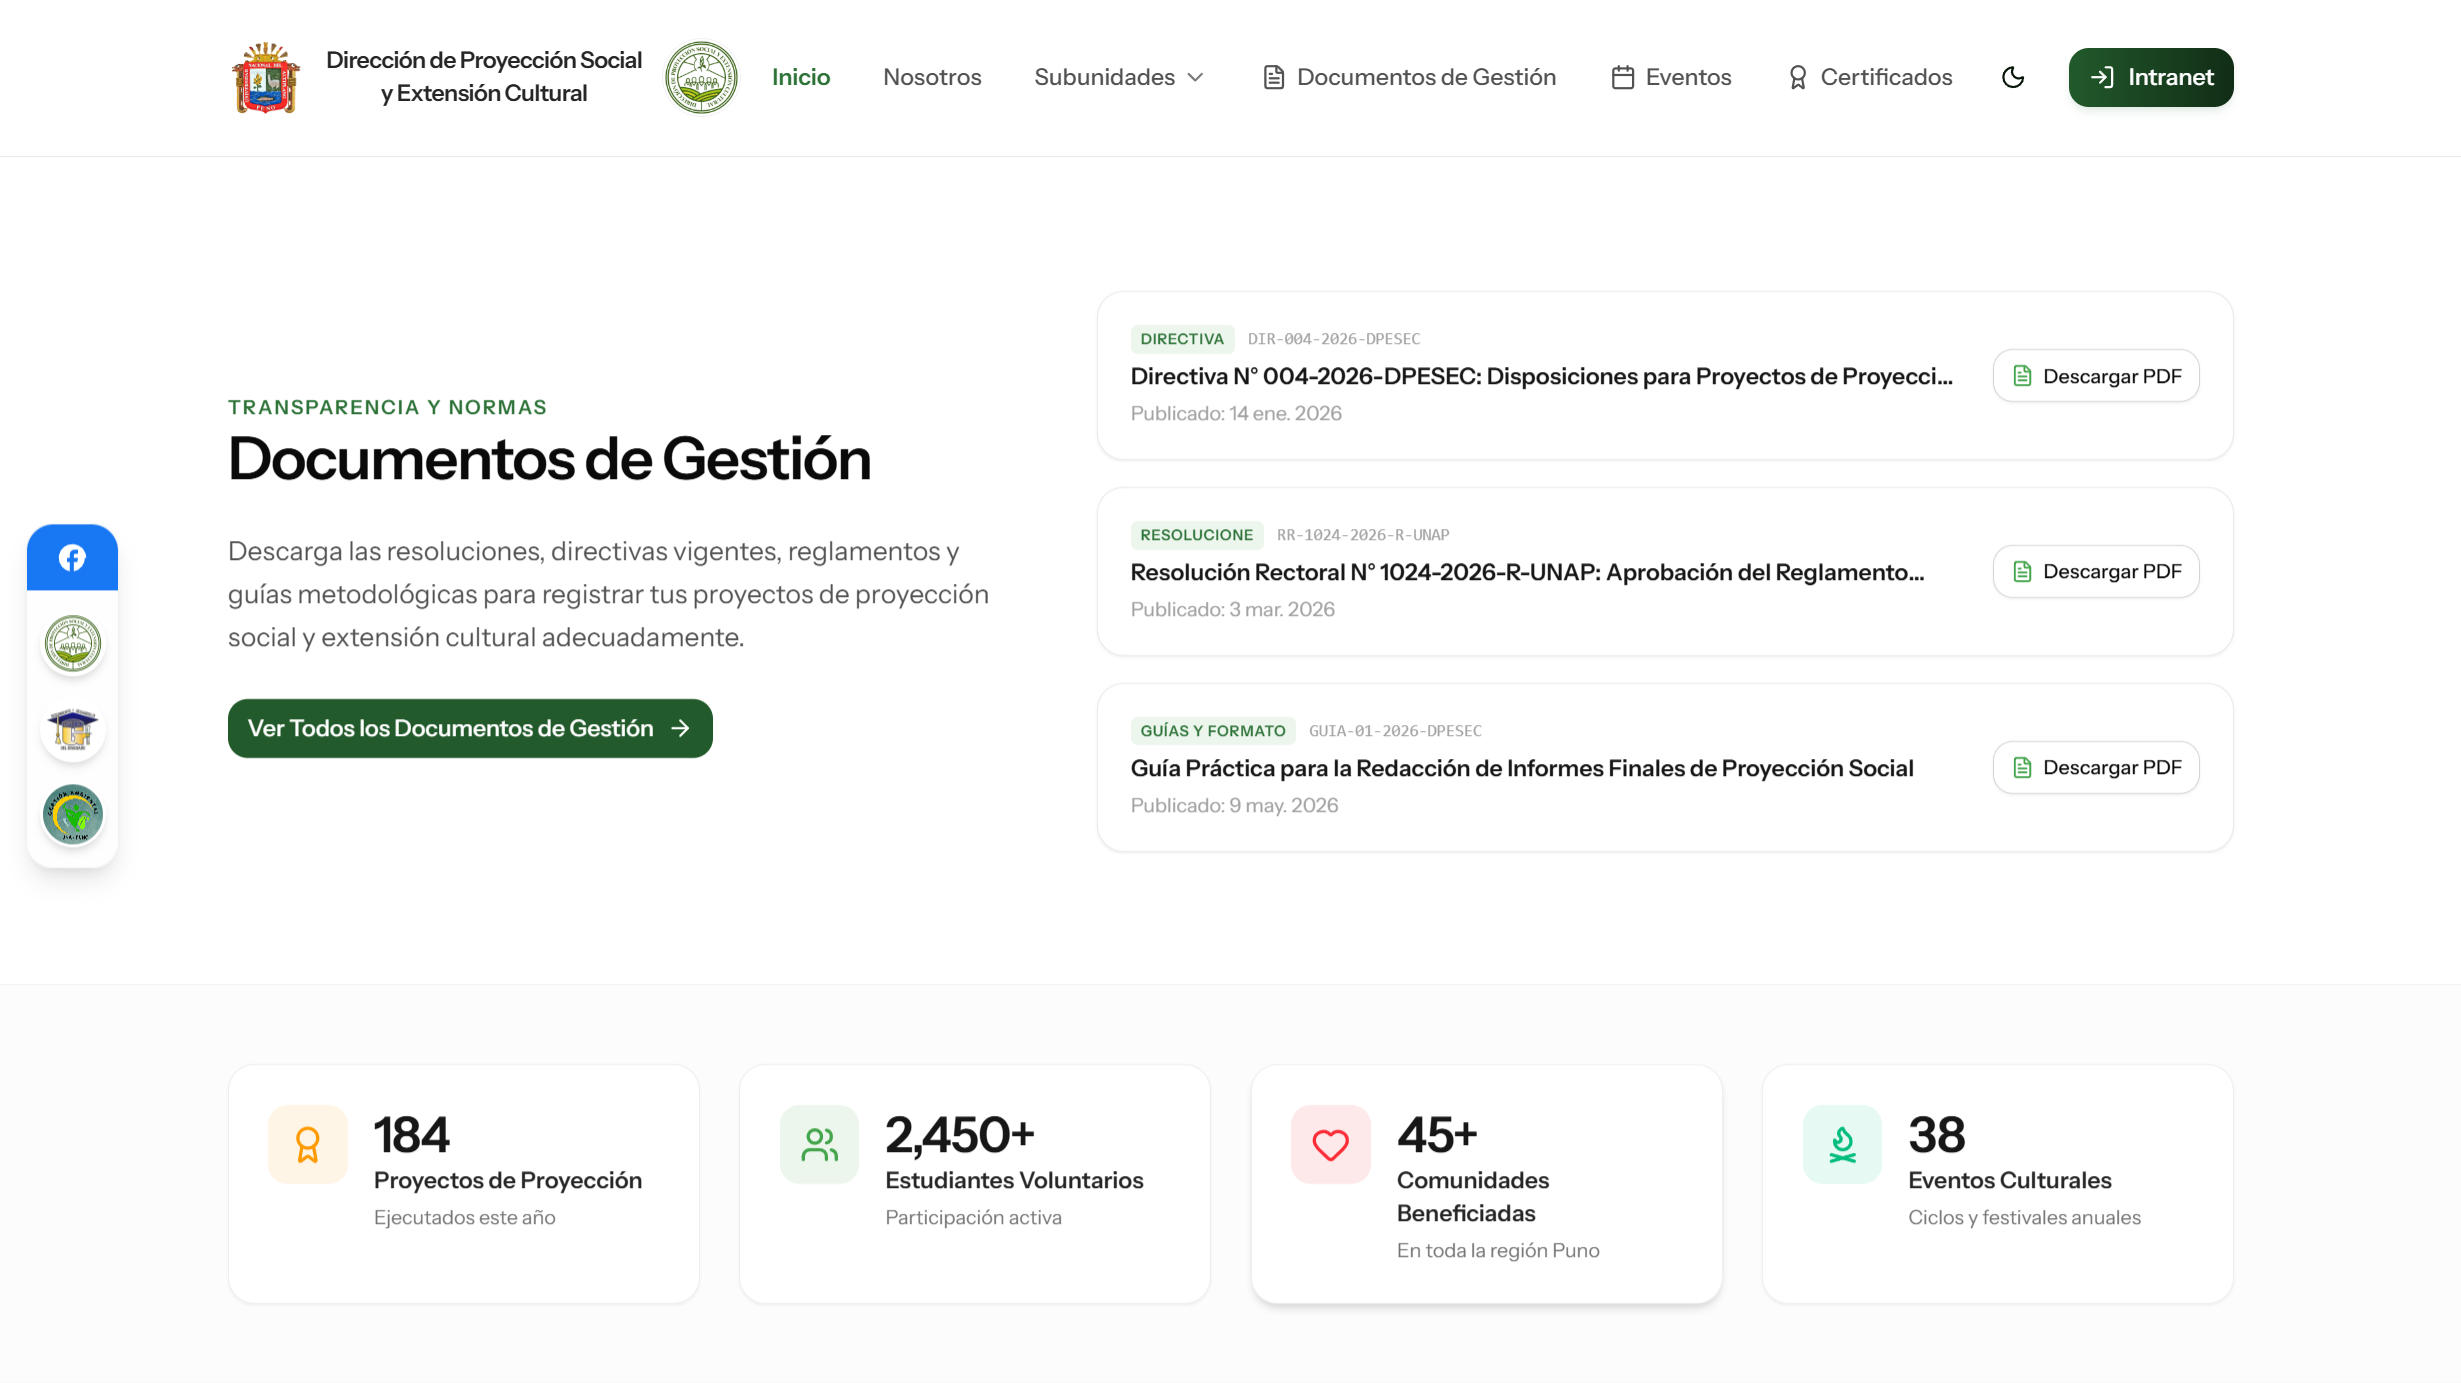
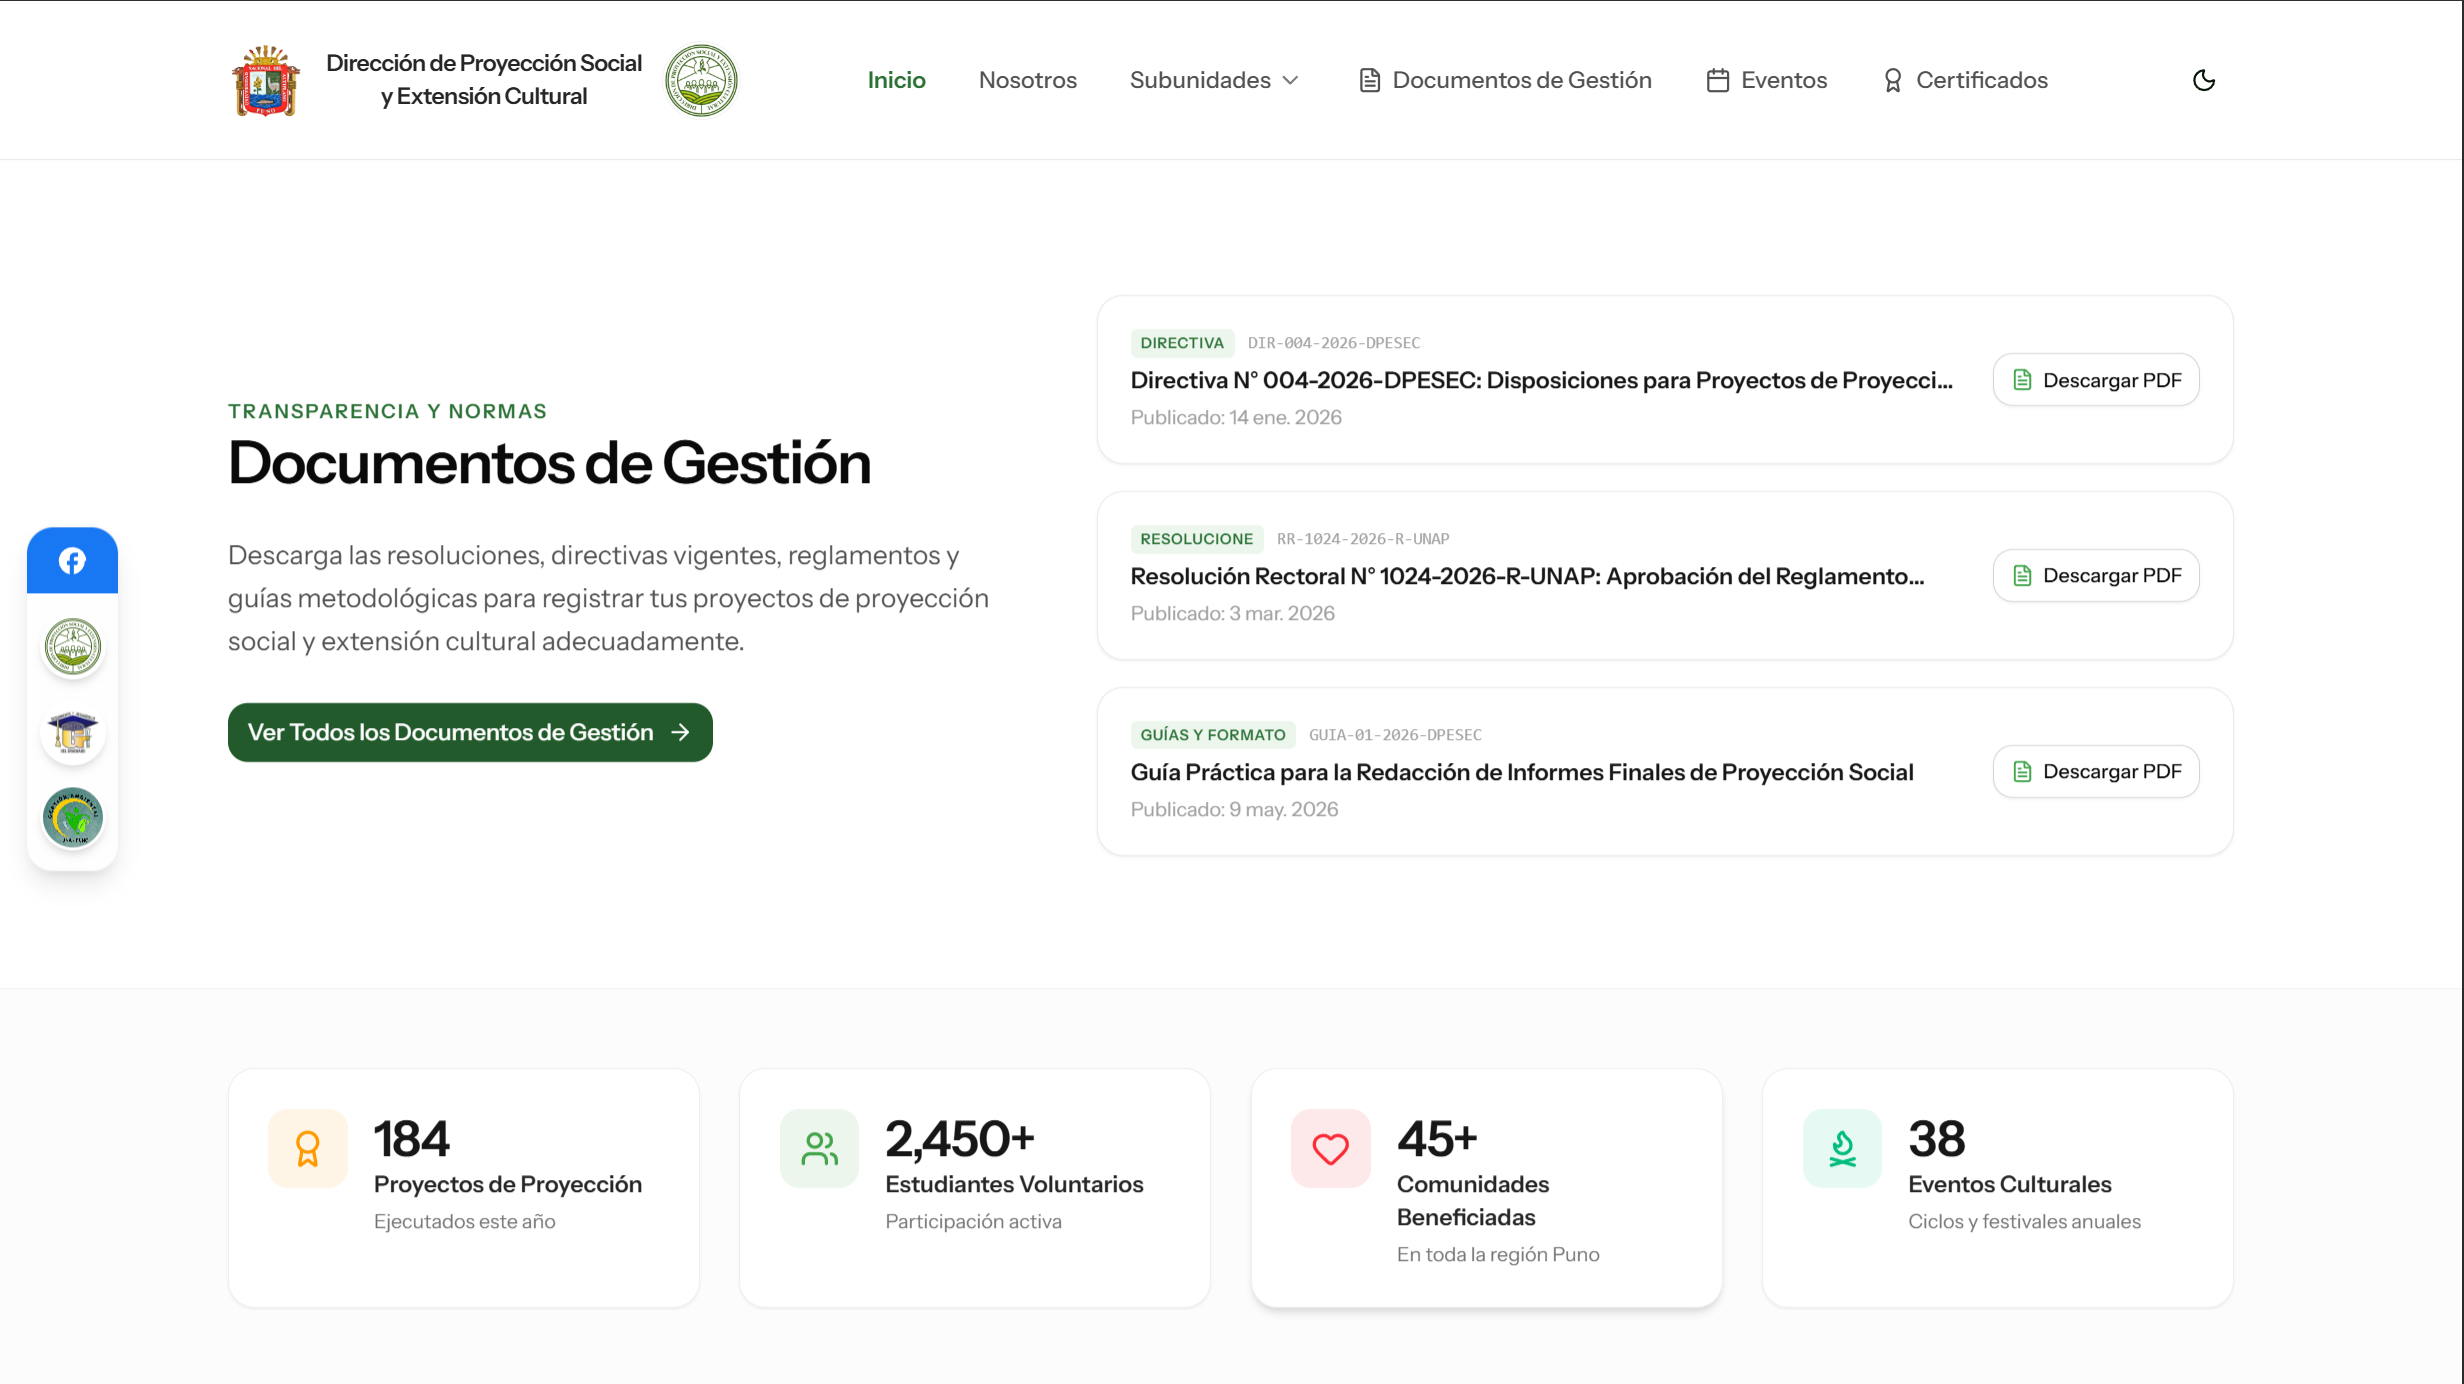
cambio en la pagina de eventos

diff --git a/resources/js/pages/public/Eventos.vue b/resources/js/pages/public/Eventos.vue
@@ -57,7 +57,7 @@ const filteredEvents = computed(() => {
 </script>
 
 <template>
-    <PublicLayout title="Cronograma de Eventos">
+    <PublicLayout title="Eventos">
         <!-- Hero Header -->
         <section 
             class="relative h-[65vh] min-h-[260px] flex items-center overflow-hidden bg-cover bg-center text-white"
@@ -68,7 +68,7 @@ const filteredEvents = computed(() => {
             
             <div class="max-w-7xl mx-auto w-full px-6 lg:px-8 text-left relative z-20 space-y-3">
                 <span class="text-xs font-bold uppercase tracking-widest text-blue-400">Agenda Institucional</span>
-                <h1 class="text-3xl md:text-4xl font-extrabold tracking-tight">Eventos y Certificados</h1>
+                <h1 class="text-3xl md:text-4xl font-extrabold tracking-tight">Eventos</h1>
                 <p class="text-xs md:text-sm text-white/80 max-w-3xl leading-relaxed">
                     Sigue nuestro cronograma de festivales culturales, campañas de salud descentralizadas, convocatorias a voluntariados ecológicos y seminarios académicos de proyección social.
                 </p>

diff --git a/resources/js/layouts/PublicLayout.vue b/resources/js/layouts/PublicLayout.vue
@@ -492,7 +492,7 @@ const suboffices = [
                 <div class="flex gap-6">
                     <a href="https://www.unap.edu.pe" target="_blank" rel="noopener noreferrer"
                         class="hover:text-white transition-colors">Portal UNA Puno</a>
-                    <!-- <a href="/login" class="hover:text-white transition-colors">Acceso Interno</a> -->
+                    <a href="/login" class="hover:text-white transition-colors">Acceso Interno</a>
                 </div>
             </div>
         </footer>

diff --git a/database/seeders/PageSectionSeeder.php b/database/seeders/PageSectionSeeder.php
@@ -87,7 +87,7 @@ class PageSectionSeeder extends Seeder
                 'page_slug' => 'eventos',
                 'section_key' => 'hero',
                 'eyebrow' => 'Agenda Institucional',
-                'title' => 'Eventos y Certificados',
+                'title' => 'Eventos',
                 'description' => 'Sigue nuestro cronograma de festivales culturales, campañas de salud descentralizadas, convocatorias a voluntariados ecológicos y seminarios académicos de proyección social.',
                 'background_image' => 'https://scontent.fjul1-1.fna.fbcdn.net/v/t39.30808-6/599715893_884448530603047_8830935029040207180_n.jpg?stp=dst-jpg_tt6&cstp=mx2048x1365&ctp=s2048x1365&_nc_cat=105&ccb=1-7&_nc_sid=127cfc&oh=00_AQCPYaYVBsK7Adxqddq_DlU6zk0tr2nCG3amFSJjCR6x5g&oe=6A547587',
                 'extra_data' => null
